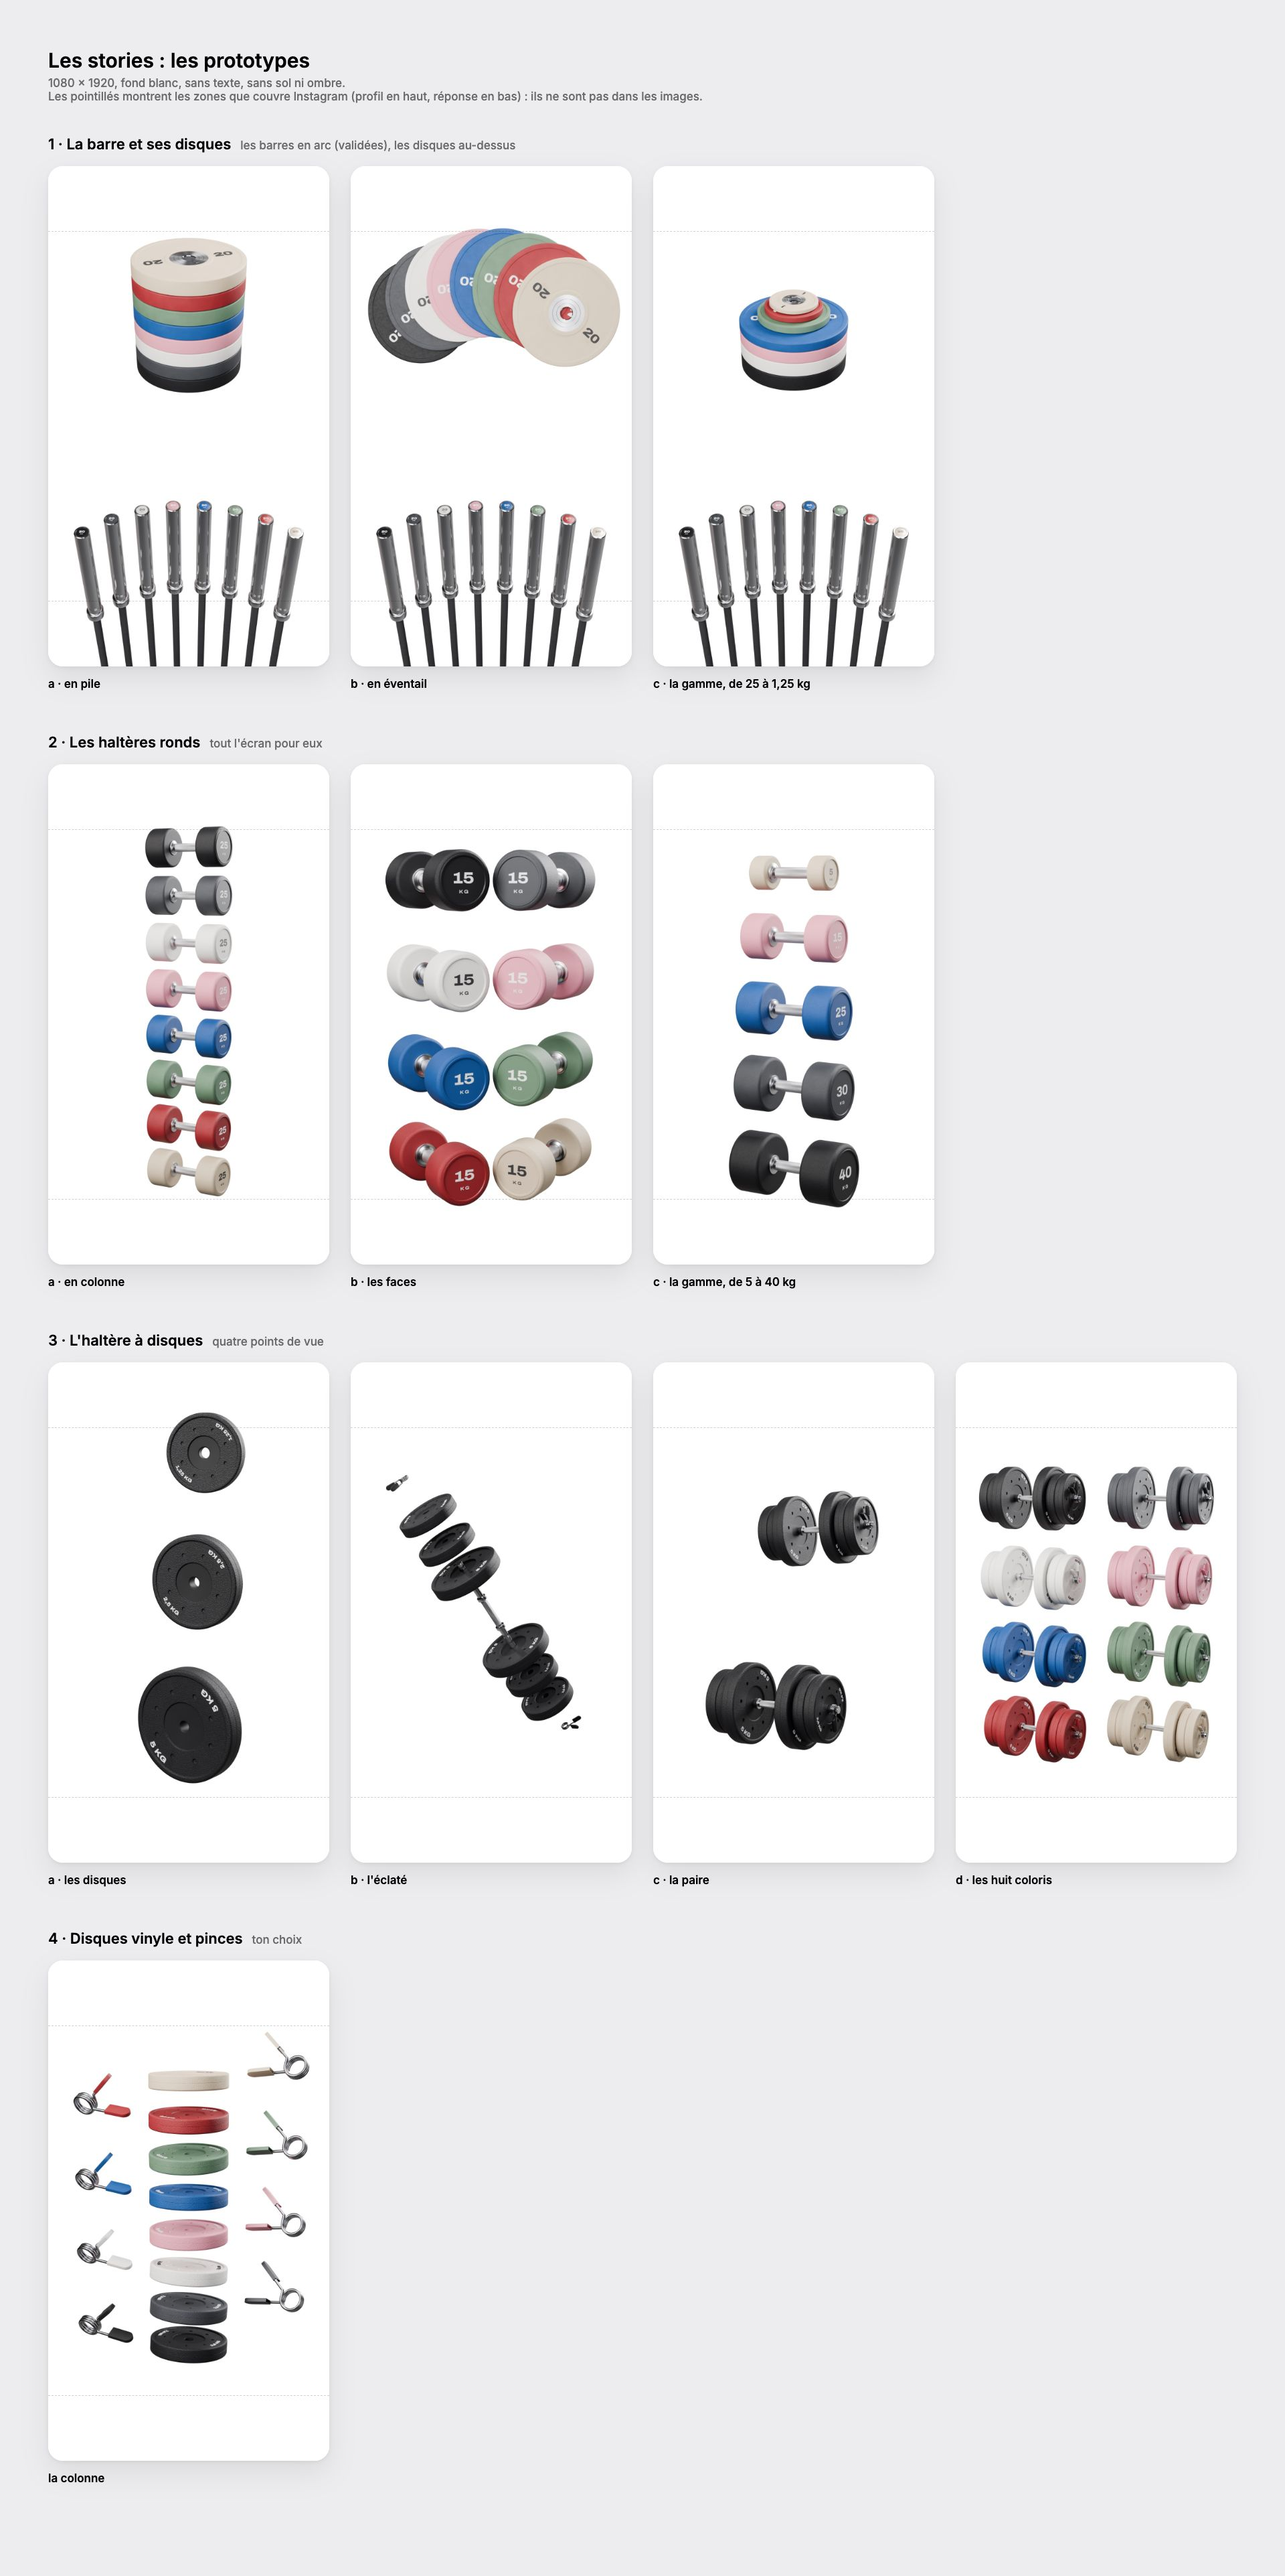
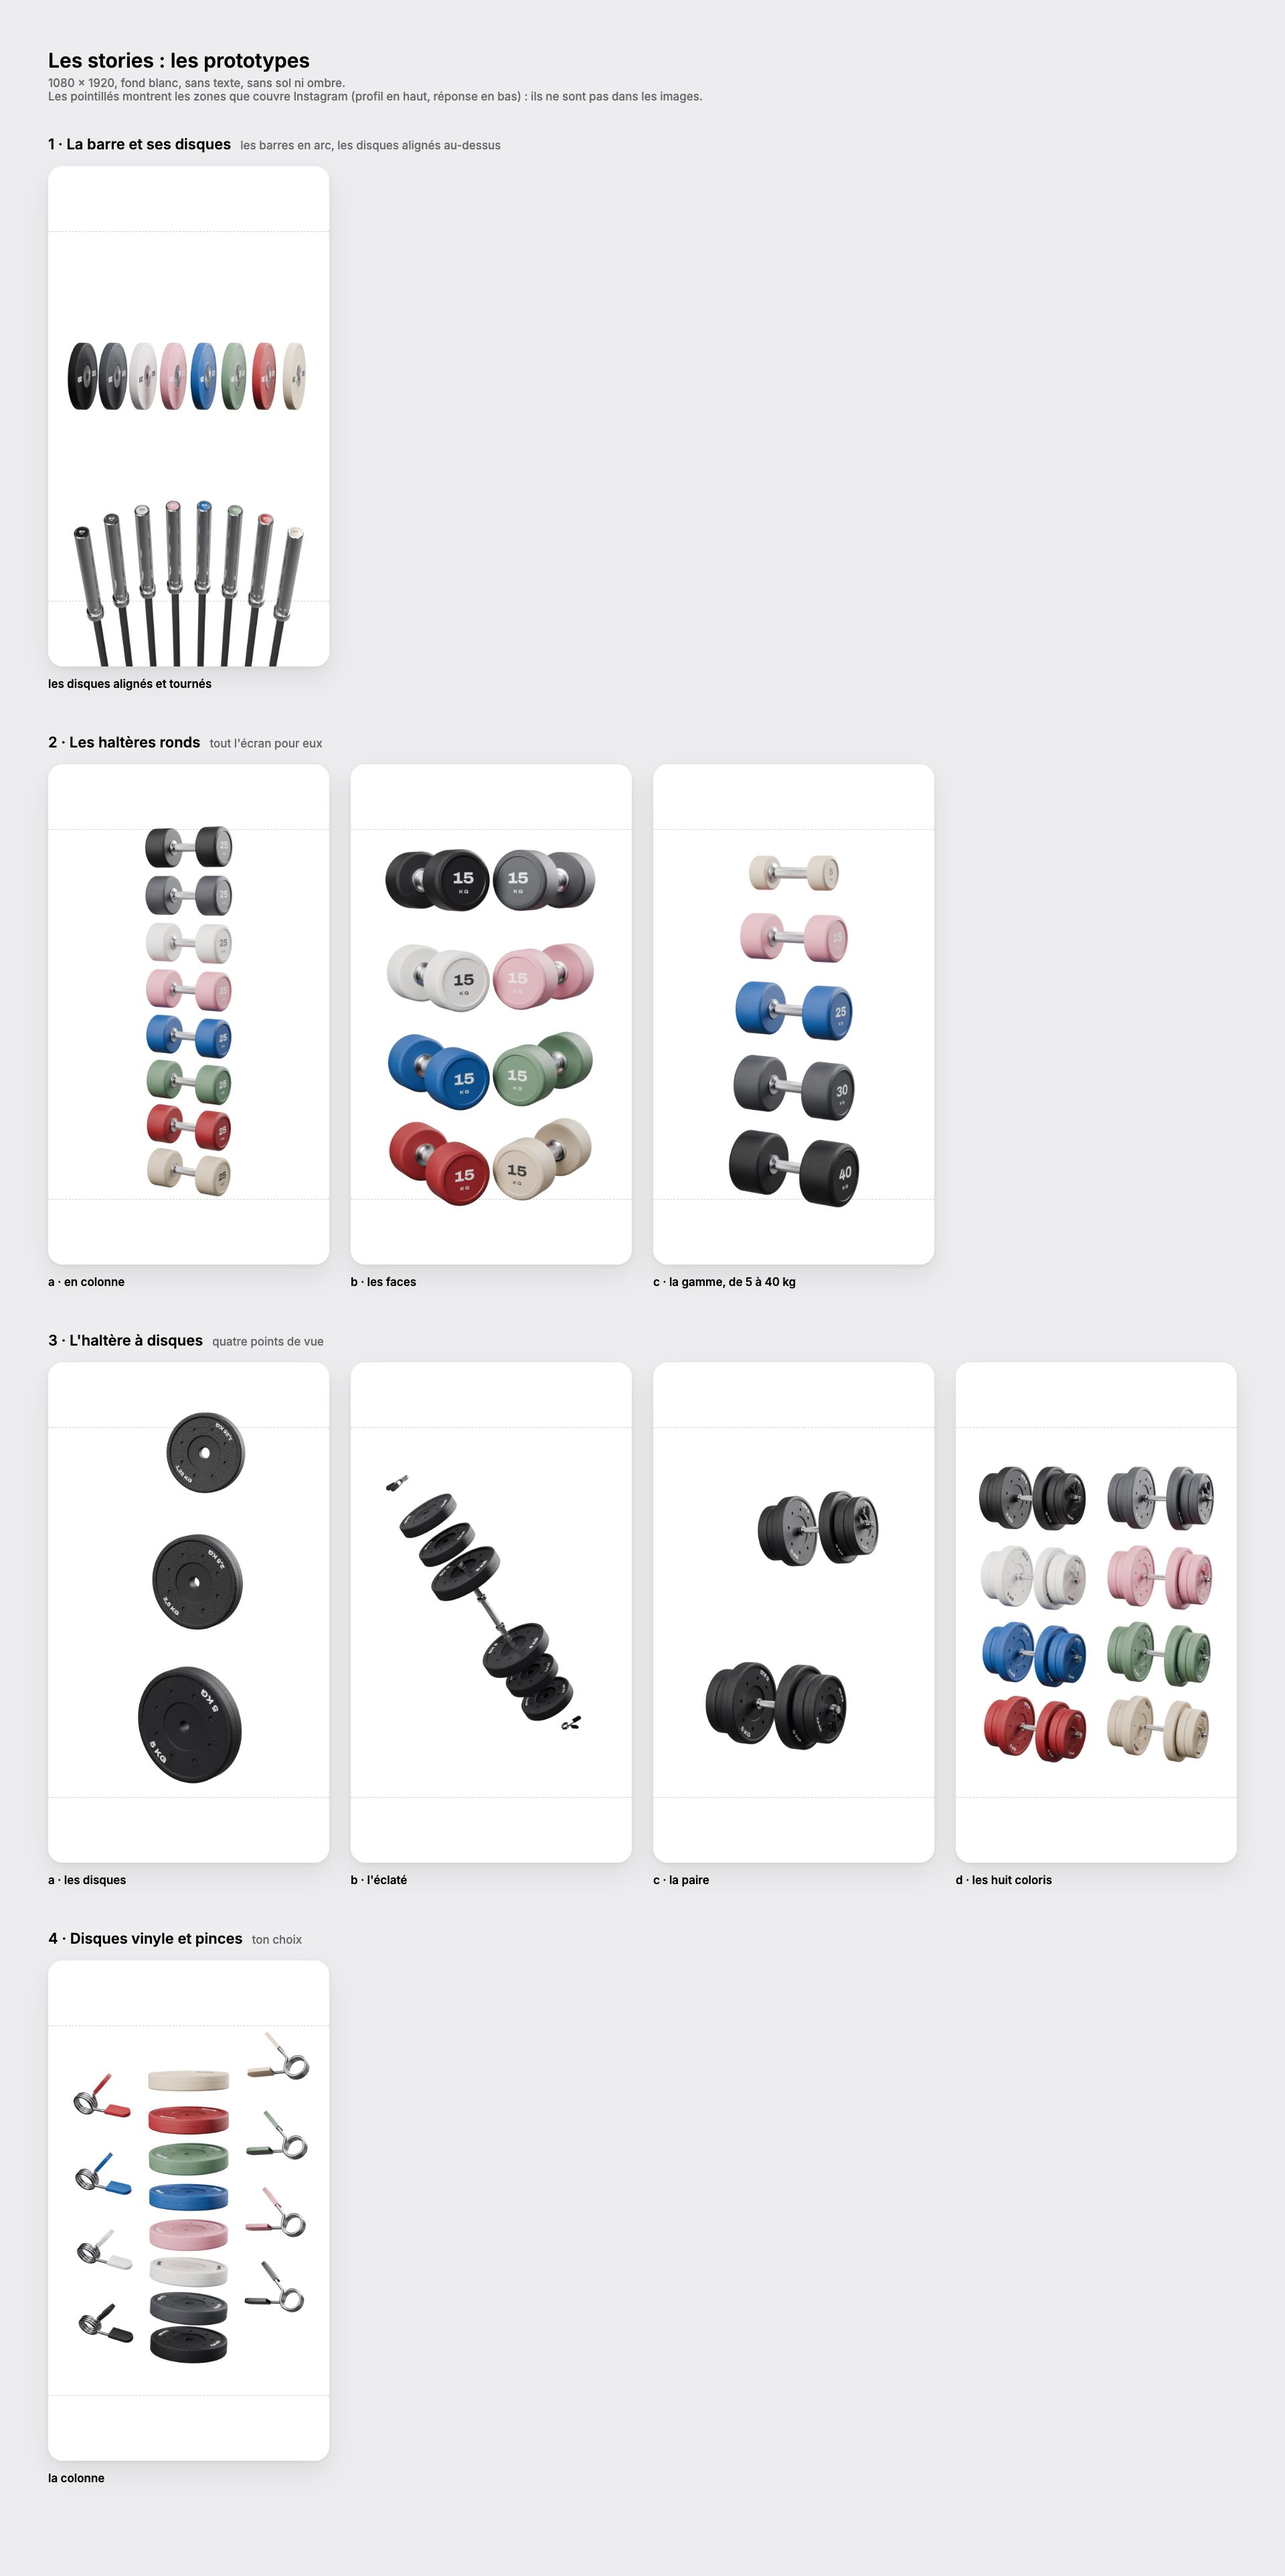
Story 1 : les disques alignés et tournés au-dessus des barres
- D'après la référence de l'utilisateur : les huit disques debout,
  alignés, tous tournés de 74° (plus qu'avant), un petit espace entre
  eux. Les barres en arc ne changent pas.
- La rangée a sa propre caméra, presque à hauteur des disques (135 mm,
  perspective plate), posée par-dessus le rendu des barres : sans sol
  ni ombre, les deux couches se raccordent.
- Les prototypes 1a, 1b et 1c sont remplacés.

Claude-Session: https://claude.ai/code/session_01D9n9ZZi5fk6puDFh7TyVoC

diff --git a/3d/stories/planche.html b/3d/stories/planche.html
@@ -20,5 +20,5 @@ figcaption { margin-top: 16px; font-size: 17px; font-weight: 600; }
 <h1>Les stories : les prototypes</h1>
 <p class="lead">1080 × 1920, fond blanc, sans texte, sans sol ni ombre.<br>
 Les pointillés montrent les zones que couvre Instagram (profil en haut, réponse en bas) : ils ne sont pas dans les images.</p>
-<section><div class="t"><b>1 · La barre et ses disques</b><span>les barres en arc (validées), les disques au-dessus</span></div><div class="row"><figure><div class="card"><img src="1a-barre-et-disques-pile.jpg"><div class="safe top"></div><div class="safe bottom"></div></div><figcaption>a · en pile</figcaption></figure><figure><div class="card"><img src="1b-barre-et-disques-eventail.jpg"><div class="safe top"></div><div class="safe bottom"></div></div><figcaption>b · en éventail</figcaption></figure><figure><div class="card"><img src="1c-barre-et-disques-gamme.jpg"><div class="safe top"></div><div class="safe bottom"></div></div><figcaption>c · la gamme, de 25 à 1,25 kg</figcaption></figure></div></section><section><div class="t"><b>2 · Les haltères ronds</b><span>tout l'écran pour eux</span></div><div class="row"><figure><div class="card"><img src="2a-halteres-ronds-colonne.jpg"><div class="safe top"></div><div class="safe bottom"></div></div><figcaption>a · en colonne</figcaption></figure><figure><div class="card"><img src="2b-halteres-ronds-faces.jpg"><div class="safe top"></div><div class="safe bottom"></div></div><figcaption>b · les faces</figcaption></figure><figure><div class="card"><img src="2c-halteres-ronds-gamme.jpg"><div class="safe top"></div><div class="safe bottom"></div></div><figcaption>c · la gamme, de 5 à 40 kg</figcaption></figure></div></section><section><div class="t"><b>3 · L'haltère à disques</b><span>quatre points de vue</span></div><div class="row"><figure><div class="card"><img src="3a-haltere-disques-disques.jpg"><div class="safe top"></div><div class="safe bottom"></div></div><figcaption>a · les disques</figcaption></figure><figure><div class="card"><img src="3b-haltere-disques-eclate.jpg"><div class="safe top"></div><div class="safe bottom"></div></div><figcaption>b · l'éclaté</figcaption></figure><figure><div class="card"><img src="3c-haltere-disques-paire.jpg"><div class="safe top"></div><div class="safe bottom"></div></div><figcaption>c · la paire</figcaption></figure><figure><div class="card"><img src="3d-haltere-disques-couleurs.jpg"><div class="safe top"></div><div class="safe bottom"></div></div><figcaption>d · les huit coloris</figcaption></figure></div></section><section><div class="t"><b>4 · Disques vinyle et pinces</b><span>ton choix</span></div><div class="row"><figure><div class="card"><img src="4-vinyle-et-pinces.jpg"><div class="safe top"></div><div class="safe bottom"></div></div><figcaption>la colonne</figcaption></figure></div></section>
+<section><div class="t"><b>1 · La barre et ses disques</b><span>les barres en arc, les disques alignés au-dessus</span></div><div class="row"><figure><div class="card"><img src="1-barre-et-disques.jpg"><div class="safe top"></div><div class="safe bottom"></div></div><figcaption>les disques alignés et tournés</figcaption></figure></div></section><section><div class="t"><b>2 · Les haltères ronds</b><span>tout l'écran pour eux</span></div><div class="row"><figure><div class="card"><img src="2a-halteres-ronds-colonne.jpg"><div class="safe top"></div><div class="safe bottom"></div></div><figcaption>a · en colonne</figcaption></figure><figure><div class="card"><img src="2b-halteres-ronds-faces.jpg"><div class="safe top"></div><div class="safe bottom"></div></div><figcaption>b · les faces</figcaption></figure><figure><div class="card"><img src="2c-halteres-ronds-gamme.jpg"><div class="safe top"></div><div class="safe bottom"></div></div><figcaption>c · la gamme, de 5 à 40 kg</figcaption></figure></div></section><section><div class="t"><b>3 · L'haltère à disques</b><span>quatre points de vue</span></div><div class="row"><figure><div class="card"><img src="3a-haltere-disques-disques.jpg"><div class="safe top"></div><div class="safe bottom"></div></div><figcaption>a · les disques</figcaption></figure><figure><div class="card"><img src="3b-haltere-disques-eclate.jpg"><div class="safe top"></div><div class="safe bottom"></div></div><figcaption>b · l'éclaté</figcaption></figure><figure><div class="card"><img src="3c-haltere-disques-paire.jpg"><div class="safe top"></div><div class="safe bottom"></div></div><figcaption>c · la paire</figcaption></figure><figure><div class="card"><img src="3d-haltere-disques-couleurs.jpg"><div class="safe top"></div><div class="safe bottom"></div></div><figcaption>d · les huit coloris</figcaption></figure></div></section><section><div class="t"><b>4 · Disques vinyle et pinces</b><span>ton choix</span></div><div class="row"><figure><div class="card"><img src="4-vinyle-et-pinces.jpg"><div class="safe top"></div><div class="safe bottom"></div></div><figcaption>la colonne</figcaption></figure></div></section>
 </body></html>

diff --git a/3d/outils/blender/stories.py b/3d/outils/blender/stories.py
@@ -69,13 +69,14 @@ def flags(c=(0.0, 0.0, 0.0), s=1.0):
         o.visible_camera = False; o.visible_shadow = False
 
 
-def catalogue_light(c=(0.0, 0.0, 0.0), s=1.0):
+def catalogue_light(c=(0.0, 0.0, 0.0), s=1.0, side=None):
     """The light of the models' catalogue renders: an HDRI for the reflections, a soft key from the top left,
     a top light, a rim. No floor: the objects alone, on a transparent film."""
     SC.render.film_transparent = True
     world_hdri(0.35, rot=30)
     cx, cy, cz = c
-    area('key', (cx - 1.7 * s, cy - 2.0 * s, cz + 1.7 * s), (cx, cy, cz), 220 * s * s, 1.6 * s, (1.0, 0.98, 0.96))
+    kx = 1.7 if side == 'droite' else -1.7               # the key on the side the faces are turned to
+    area('key', (cx + kx * s, cy - 2.0 * s, cz + 1.7 * s), (cx, cy, cz), 220 * s * s, 1.6 * s, (1.0, 0.98, 0.96))
     area('top', (cx + 0.2 * s, cy - 0.8 * s, cz + 2.4 * s), (cx, cy, cz), 35 * s * s, 2.0 * s)
     area('rim', (cx + 1.4 * s, cy + 1.4 * s, cz + 1.2 * s), (cx, cy, cz), 140 * s * s, 0.4 * s, (1, 1, 1), 'RECTANGLE', 2.4 * s)
     flags(c, s)
@@ -134,6 +135,27 @@ def s1c():  # the range of weights in a pyramid: 25 kg at the bottom up to 1.25 
         lie_flat(e, z + e['T'] / 2, -50 + 17 * i)
         z += e['T'] + 0.002
     return bars_camera()
+
+
+def sbarres():  # the bars alone (the bottom layer of story 1d)
+    bars_arc()
+    return bars_camera()
+
+
+def s1d():  # the plates standing in a straight row, all turned the same way, a little air between them
+    # (the user's reference: the step-8 colour row, more turned and closer); rendered with its own camera, nearly
+    # level with the plates, then laid over the bars (sbarres): no floor, no shadow, so the two layers match.
+    yaw = float(ARGS.get('yaw', 74))
+    p = 0.45 * math.cos(math.radians(yaw)) + 0.058 * math.sin(math.radians(yaw))   # width of a plate seen from the front
+    step = p * float(ARGS.get('gap', 1.13))                 # a small gap between the plates
+    for i, c in enumerate(COLS):
+        pose(plate(c, name='d%d' % i), ((i - 3.5) * step, 0.0, 0.0), (0, 0, yaw))       # the face turned to the right, the rim seen on the left (the reference)
+    story()
+    width = 8 * step / 0.86                                  # the row fills 86 % of the width
+    dist = width / 2 / (10.125 / 135)                         # lens 135 (a flat perspective), the width of a 9:16 sensor is 36 x 9 / 16 mm
+    el = math.radians(7)
+    camera((0.0, -dist * math.cos(el), dist * math.sin(el)), (0.0, 0.0, 0.0), lens=135, fstop=32, shift_y=-0.08)
+    return (0.0, 0.0, 0.0), 1.0, 'droite'
 
 
 # 2 the round dumbbells, the whole screen: a column, the faces, the range of weights
@@ -235,7 +257,7 @@ def s4():
     return (0.0, 0.0, 0.95), 1.0, 0.38
 
 
-SCENE_FN = {k: globals()['s' + k] for k in ('1a', '1b', '1c', '2a', '2b', '2c', '3a', '3b', '3c', '3d', '4')}
+SCENE_FN = {k: globals()['s' + k] for k in ('1a', '1b', '1c', '1d', 'barres', '2a', '2b', '2c', '3a', '3b', '3c', '3d', '4')}
 
 for sc in SCENES:
     reset()
@@ -244,6 +266,6 @@ for sc in SCENES:
     for cl in list(bpy.data.collections):
         bpy.data.collections.remove(cl)
     random.seed(7)
-    c, k, _ = SCENE_FN[sc]()
-    catalogue_light(c, k)
+    c, k, side = SCENE_FN[sc]()
+    catalogue_light(c, k, side)
     render(os.path.join(OUT, f'story-{sc}.png'))

diff --git a/3d/outils/stories.py b/3d/outils/stories.py
@@ -10,10 +10,8 @@ OUT = Path(__file__).resolve().parent
 BRUTS = OUT / 'blender/_bruts/stories'
 DOS = OUT.parent / 'stories'
 GROUPS = [   # story, its prototypes: scene, file, label on the board
-    ('1 · La barre et ses disques', 'les barres en arc (validées), les disques au-dessus', [
-        ('1a', '1a-barre-et-disques-pile', 'a · en pile'),
-        ('1b', '1b-barre-et-disques-eventail', 'b · en éventail'),
-        ('1c', '1c-barre-et-disques-gamme', 'c · la gamme, de 25 à 1,25 kg')]),
+    ('1 · La barre et ses disques', 'les barres en arc, les disques alignés au-dessus', [
+        ('1', '1-barre-et-disques', 'les disques alignés et tournés')]),
     ('2 · Les haltères ronds', 'tout l\'écran pour eux', [
         ('2a', '2a-halteres-ronds-colonne', 'a · en colonne'),
         ('2b', '2b-halteres-ronds-faces', 'b · les faces'),
@@ -29,11 +27,13 @@ GROUPS = [   # story, its prototypes: scene, file, label on the board
 STORIES = [st for _, _, sts in GROUPS for st in sts]
 
 DOS.mkdir(parents=True, exist_ok=True)
+LAYERS = {'1': ['barres', '1d']}    # story 1: the bars and the row of plates, each with its own camera
+
 for sc, name, _ in STORIES:
-    obj = BRUTS / f'story-{sc}.png'
-    if not obj.exists():
+    objs = [BRUTS / f'story-{k}.png' for k in LAYERS.get(sc, [sc])]
+    if not all(o.exists() for o in objs):
         continue
-    layers = f'<img src="{obj.as_uri()}">'
+    layers = ''.join(f'<img src="{o.as_uri()}">' for o in objs)
     page = f'''<html><body style="margin:0;width:1080px;height:1920px;background:#FFFFFF;position:relative;overflow:hidden">
 <style>img {{ position:absolute; inset:0; width:1080px; height:1920px; }}</style>{layers}</body></html>'''
     with tempfile.NamedTemporaryFile('w', suffix='.html', delete=False) as f:

diff --git a/Lis-moi.md b/Lis-moi.md
@@ -38,7 +38,7 @@ Les prototypes :
 
 | Story | Le contenu | Les prototypes |
 |---|---|---|
-| 1 | les barres en arc, et les disques au-dessus | a en pile, b en éventail, c la gamme de 25 à 1,25 kg |
+| 1 | les barres en arc, et les disques alignés au-dessus, tournés de la même façon, un petit espace entre eux | une (22/11, d'après ta référence) |
 | 2 | les haltères ronds, sur tout l'écran | a en colonne, b les faces, c la gamme de 5 à 40 kg |
 | 3 | l'haltère à disques | a les disques, b l'éclaté, c la paire, d les huit coloris |
 | 4 | les disques vinyle et les pinces, en colonne | ton choix |
